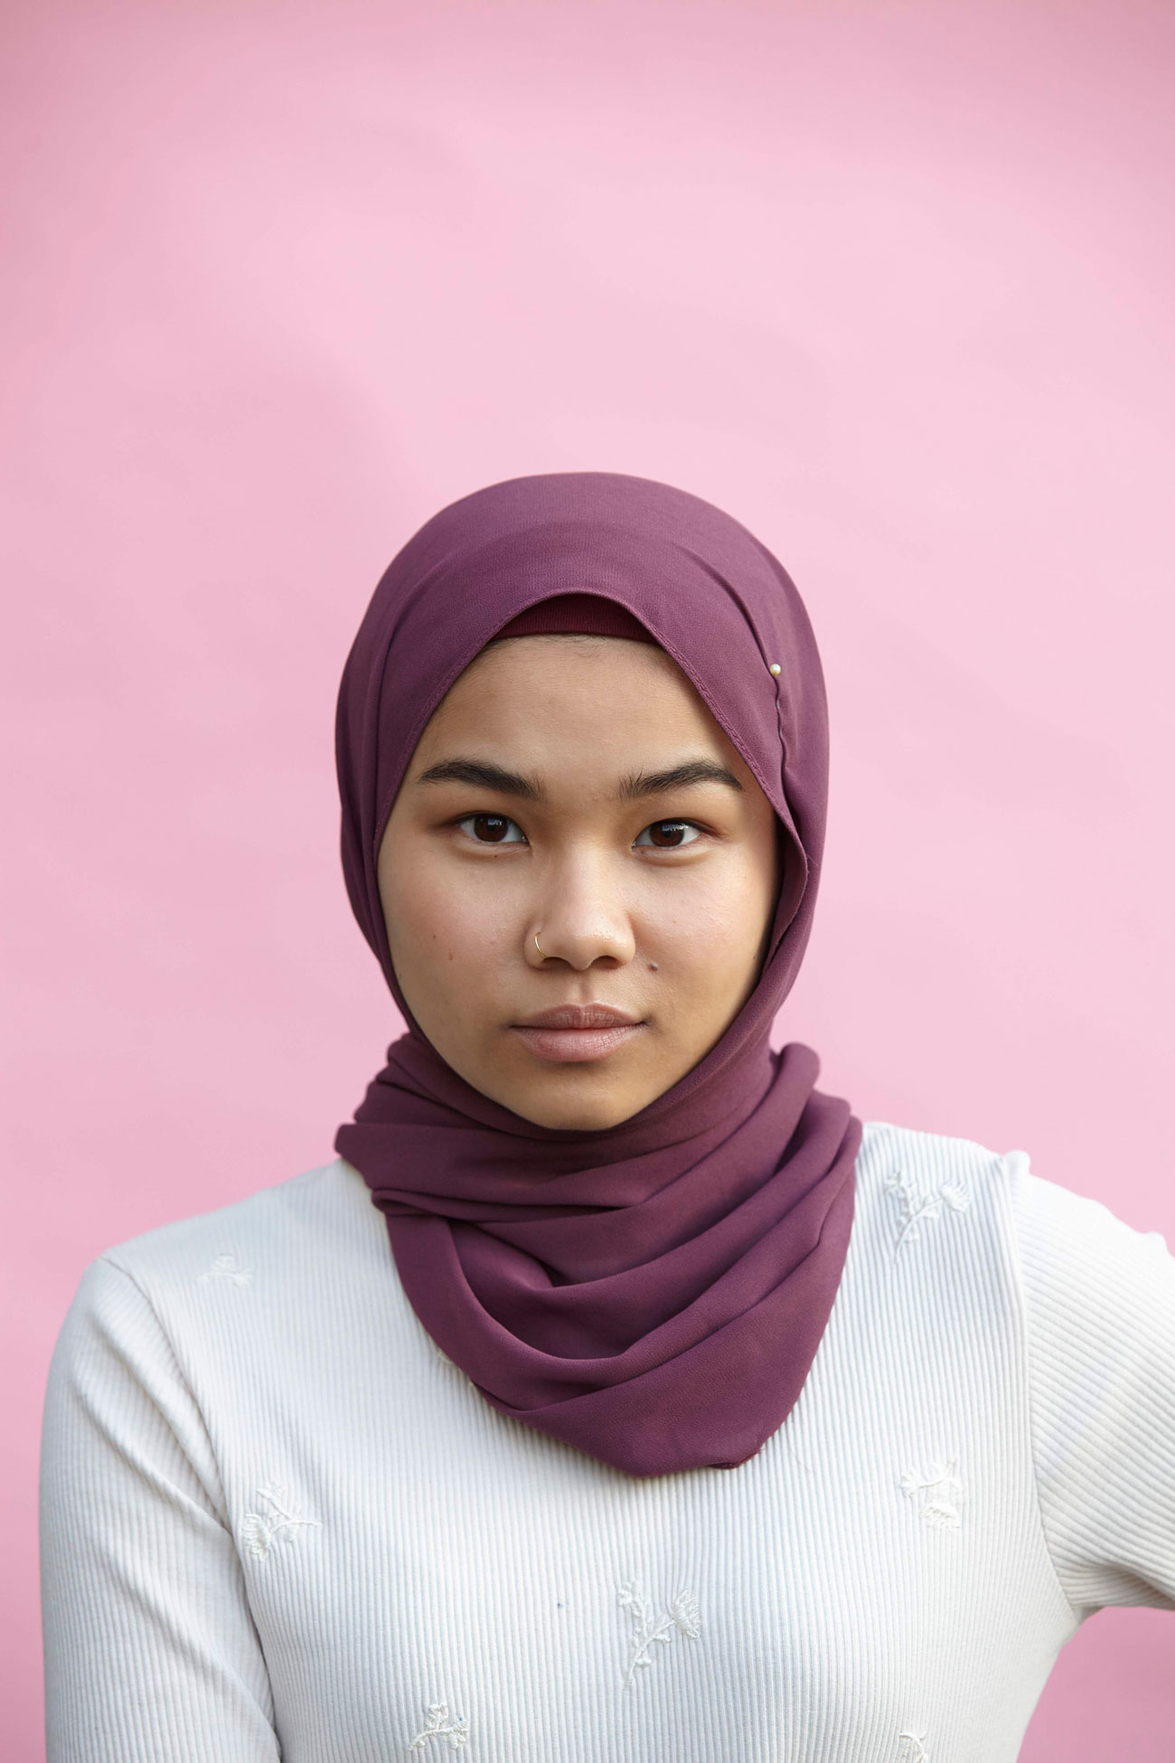
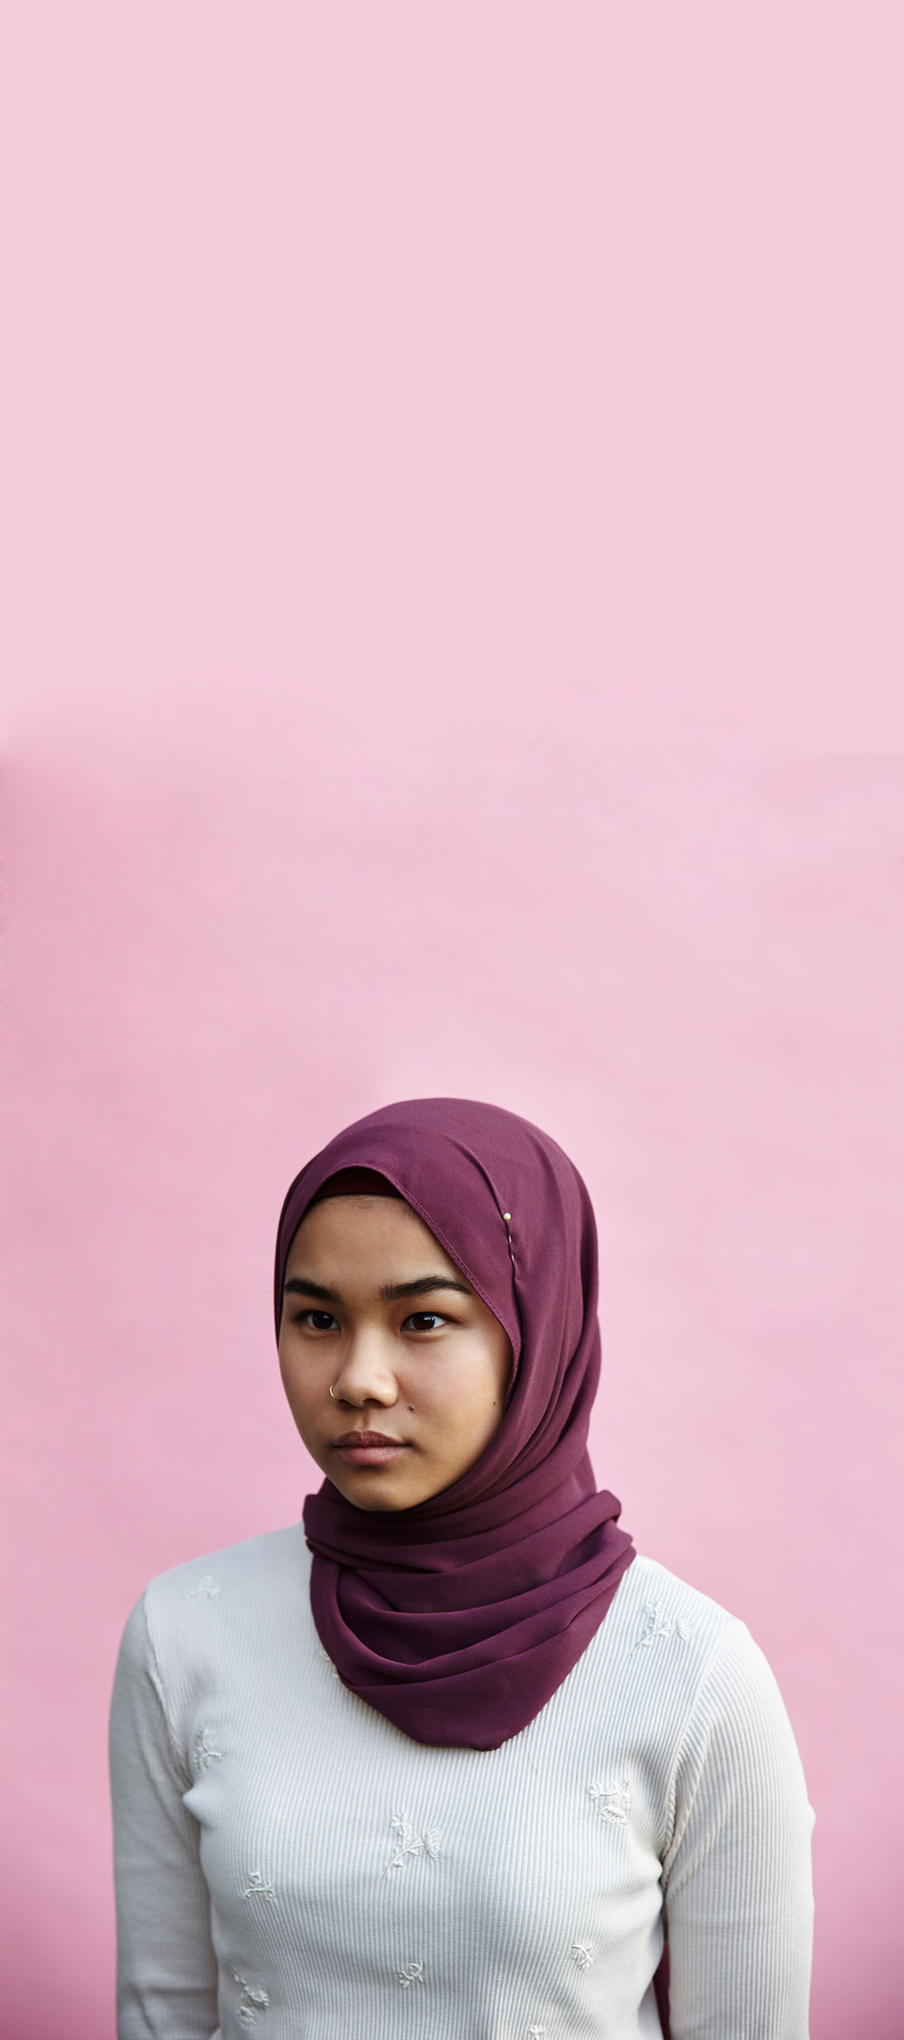
added tweaks to home

diff --git a/_site/assets/main.css b/_site/assets/main.css
@@ -1,3 +1,3 @@
-@font-face{font-family:'Apercu Pro';src:url("ApercuPro.woff2") format("woff2"),url("ApercuPro.woff") format("woff");font-weight:normal;font-style:normal}@keyframes gradient{0%{background-color:#a8c1ac;width:92vh;height:92vh}25%{background-color:#ea6e80}50%{background-color:#eea8bb;width:96vh;height:96vh}75%{background-color:#ffdc7b}100%{background-color:#85bfe4;width:92vh;height:92vh}}body{font-family:'Apercu Pro';padding:0;margin:0;font-weight:200;color:#333}.grid{width:90%;padding-left:5%;padding-right:5%;display:flex;position:fixed;top:0;bottom:0;left:50%;transform:translateX(-50%);z-index:1;pointer-events:none;display:none}.col{border-left:1px solid red;border-right:1px solid red;flex-grow:1;margin-right:10px;display:none}.col:nth-child(1),.col:nth-child(2),.col:nth-child(3),.col:nth-child(4){display:block}@media all and (min-width: 46.25em){.col:nth-child(5),.col:nth-child(6){display:block}.col:nth-child(6){margin-right:0}}@media all and (min-width: 61.25em){.col:nth-child(8),.col:nth-child(9),.col:nth-child(9),.col:nth-child(10){display:block}.col:nth-child(6){margin-right:10px}.col:nth-child(10){margin-right:0}}@media all and (min-width: 81.25em){.col:nth-child(11),.col:nth-child(12){display:block}.col:nth-child(10){margin-right:10px}.col:last-child{margin-right:0}}.som-wrapper{width:90%;padding-left:5%;padding-right:5%;margin-left:auto;margin-right:auto}@media all and (min-width: 61.25em){.som-wrapper{padding:0}}.courier{font-family:courier, monospace;font-size:17px;line-height:21px}.white{background-color:#fff !important;color:#9b9b9b}.flex{display:flex;flex-direction:column}@media all and (min-width: 61.25em){.flex{flex-direction:row}}.flex.wrap{flex-wrap:wrap}ul{list-style:none;margin:0;padding:0}ul li{width:7.55vw;margin-right:10px}ul li:last-child{margin-right:0}.numbers{font-size:9.5vw;line-height:0.8;font-weight:200;letter-spacing:-10px}.som-header{position:fixed;width:100%;z-index:1;padding-top:60px}.som-header .flex{justify-content:space-between}.som-header .flex ul{display:flex;flex-direction:column}@media all and (min-width: 61.25em){.som-header .flex ul{flex-direction:row}}@keyframes fade-in{0%{transform:scale(1.1)}100%{transform:scale(1)}}@keyframes wipeHeight{0%{height:0}100%{height:100vh}}.som-splash{height:100vh;width:100%;background-color:pink;position:relative;overflow:hidden}.som_splash__image-wrapper{overflow:hidden;animation-name:wipeHeight;animation-duration:1.5s;animation-iteration-count:1;animation-fill-mode:forwards;animation-timing-function:ease-in-out}.som-splash__image{width:100%;height:100%;object-fit:cover;object-position:top;opacity:1;transform:scale(1.1)}@keyframes enlarge{0%{transform:scale(1) translate(-50%, -50%)}50%{transform:scale(1.2) translate(-50%, -50%)}100%{transform:scale(1) translate(-50%, -50%)}}.som-cirlce__large{width:92vh;height:92vh;background-color:#a8c1ac;border-radius:50%;animation-name:gradient;animation-duration:7s;animation-iteration-count:infinite;animation-fill-mode:forwards;animation-timing-function:linear;will-change:transform;transition:all ease-in-out 1s;position:absolute;left:50%;top:50%;transform:translate(-50%, -50%);transform-origin:center}.som-cirlce__large.remove{top:-50%;transition:all ease-in-out 5s}.som-cirlce__large h1{position:absolute;font-size:30px;line-height:40px;letter-spacing:1px;color:#333;font-weight:100;left:50%;top:45%;transform:translate(-50%, -50%)}.som-cirlce__large h1 span{display:block;font-size:80px;line-height:75px;letter-spacing:-2px;text-transform:capitalize}.som-cirlce__large h1 .som-splash__broken-text{margin-left:250px}.som-square__1{width:23.8vw;height:23.8vw;background-color:grey;margin-top:9%;margin-bottom:9%}@media all and (min-width: 81.25em){.som-square__1:nth-child(1){margin-left:9.2%}}@media all and (min-width: 81.25em){.som-square__1{margin-left:9.8%}}.som-square__2{width:32.1vw;height:32.1vw;background-color:grey;margin-top:9%;margin-bottom:9%}@media all and (min-width: 81.25em){.som-square__2:nth-child(1){margin-left:9.2%}}@media all and (min-width: 81.25em){.som-square__2{margin-left:9.8%}}.som-panel{height:100vh;background-color:#406d84;color:#e7eee7}.som-panel .som-left,.som-panel .som-right{width:50%;height:100vh}.som-panel .som-left h1:nth-child(2){margin-top:220px}.som-panel.white h1{color:#9b9b9b;font-size:calc(17px * 3);line-height:calc(21px * 2.8);width:calc(90vw / 4 * 5 + (1.1% * 5))}@media all and (min-width: 46.25em){.som-panel.white h1{width:calc(90vw / 6 * 5 + (1.1% * 5))}}@media all and (min-width: 61.25em){.som-panel.white h1{width:calc(90vw / 10 * 5 + (1.1% * 5))}}@media all and (min-width: 81.25em){.som-panel.white h1{width:calc(90vw / 12 * 5 + (1.1% * 5))}}.som-panel.white p{color:#9b9b9b;width:calc(90vw / 4 * 3 + (1.1% * 3))}@media all and (min-width: 46.25em){.som-panel.white p{width:calc(90vw / 6 * 3 + (1.1% * 3))}}@media all and (min-width: 61.25em){.som-panel.white p{width:calc(90vw / 10 * 3 + (1.1% * 3))}}@media all and (min-width: 81.25em){.som-panel.white p{width:calc(90vw / 12 * 3 + (1.1% * 3))}}.som-panel .som-right{overflow:hidden}.som-panel .som-right p{max-width:290px;margin-left:74px;margin-top:148px}.som-panel .som-right p:nth-child(2){margin-top:215px}.som-panel .som-right img{width:calc(90vw / 4 * 3.35 + (1.1% * 3.35));height:100%;object-fit:cover;object-position:center;position:absolute;right:0}@media all and (min-width: 46.25em){.som-panel .som-right img{width:calc(90vw / 6 * 3.35 + (1.1% * 3.35))}}@media all and (min-width: 61.25em){.som-panel .som-right img{width:calc(90vw / 10 * 3.35 + (1.1% * 3.35))}}@media all and (min-width: 81.25em){.som-panel .som-right img{width:calc(90vw / 12 * 3.35 + (1.1% * 3.35))}}
+@font-face{font-family:'Apercu Pro';src:url("ApercuPro.woff2") format("woff2"),url("ApercuPro.woff") format("woff");font-weight:normal;font-style:normal}@keyframes gradient{0%{background-color:#ded9b3;width:92vh;height:92vh}10%{background-color:#ded9b3}25%{background-color:#406d84}50%{background-color:#eea8bb;width:96vh;height:96vh}75%{background-color:#ffdc7b}100%{background-color:#ded9b3;width:92vh;height:92vh}}body{font-family:'Apercu Pro';padding:0;margin:0;font-weight:200;color:#333}.grid{width:90%;padding-left:5%;padding-right:5%;display:flex;position:fixed;top:0;bottom:0;left:50%;transform:translateX(-50%);z-index:1;pointer-events:none;display:none}.grid.display{display:flex}.col{border-left:1px solid red;border-right:1px solid red;flex-grow:1;margin-right:10px;display:none}.col:nth-child(1),.col:nth-child(2),.col:nth-child(3),.col:nth-child(4){display:block}@media all and (min-width: 46.25em){.col:nth-child(5),.col:nth-child(6){display:block}.col:nth-child(6){margin-right:0}}@media all and (min-width: 61.25em){.col:nth-child(8),.col:nth-child(9),.col:nth-child(9),.col:nth-child(10){display:block}.col:nth-child(6){margin-right:10px}.col:nth-child(10){margin-right:0}}@media all and (min-width: 81.25em){.col:nth-child(11),.col:nth-child(12){display:block}.col:nth-child(10){margin-right:10px}.col:last-child{margin-right:0}}.som-wrapper{width:90%;padding-left:5%;padding-right:5%;margin-left:auto;margin-right:auto}@media all and (min-width: 61.25em){.som-wrapper{padding:0}}.courier{font-family:courier, monospace;font-size:17px;line-height:21px}.white{background-color:#fff !important;color:#9b9b9b}.olive{background-color:#ded9b3 !important;color:#333}.blue{background-color:#a3c3ce !important;color:#333}.flex{display:flex;flex-direction:column}@media all and (min-width: 61.25em){.flex{flex-direction:row}}.flex.wrap{flex-wrap:wrap}ul{list-style:none;margin:0;padding:0}ul li{margin-right:30px}ul li:last-child{margin-right:0}.numbers{font-size:9.5vw;line-height:0.8;font-weight:200;letter-spacing:-10px}.som-header{position:fixed;width:100%;z-index:1;padding-top:60px}.som-header .flex{justify-content:space-between}.som-header .flex ul{display:flex;flex-direction:column}@media all and (min-width: 61.25em){.som-header .flex ul{flex-direction:row}}@keyframes fade-in{0%{transform:scale(1.1)}100%{transform:scale(1)}}@keyframes wipeHeight{0%{height:0}100%{height:100vh}}.som-splash{height:100vh;width:100%;background-color:pink;position:relative;overflow:hidden}.som_splash__image-wrapper{overflow:hidden;animation-name:wipeHeight;animation-duration:1.5s;animation-iteration-count:1;animation-fill-mode:forwards;animation-timing-function:ease-in-out}.som-splash__image{width:100%;height:100%;object-fit:cover;object-position:top;opacity:1;transform:scale(1.1)}@keyframes enlarge{0%{transform:scale(1) translate(-50%, -50%)}50%{transform:scale(1.2) translate(-50%, -50%)}100%{transform:scale(1) translate(-50%, -50%)}}.circle{width:92vh;height:92vh;background-color:#ded9b3;border-radius:50%;animation-name:gradient;animation-duration:7s;animation-iteration-count:infinite;animation-fill-mode:forwards;animation-timing-function:linear;will-change:transform;transition:all ease-in-out 1s;position:absolute;left:50%;top:50%;transform:translate(-50%, -50%);transform-origin:center;z-index:10}.circle.left{left:0}.circle.right{right:0;transform:translate(50%, -100%)}.circle.bottom{top:0;bottom:0;transform:translate(50%, 50%)}.som-cirlce__large{width:92vh;height:92vh;background-color:#ded9b3;border-radius:50%;animation-name:gradient;animation-duration:7s;animation-iteration-count:infinite;animation-fill-mode:forwards;animation-timing-function:linear;will-change:transform;transition:all ease-in-out 1s;position:absolute;left:50%;top:50%;transform:translate(-50%, -50%);transform-origin:center}.som-cirlce__large.remove{top:-50%;transition:all ease-in-out 5s}.som-cirlce__large h1{position:absolute;font-size:30px;line-height:40px;letter-spacing:1px;color:#333;font-weight:100;left:50%;top:45%;transform:translate(-50%, -50%);margin-left:50px}.som-cirlce__large h1 span{display:block;font-size:80px;line-height:75px;letter-spacing:-2px;text-transform:capitalize;margin-left:-110px}.som-cirlce__large h1 .som-splash__broken-text{margin-left:100px}.som-square__1{width:23.8vw;height:23.8vw;background-color:grey;margin-top:9%;margin-bottom:9%}@media all and (min-width: 81.25em){.som-square__1:nth-child(1){margin-left:9.2%}}@media all and (min-width: 81.25em){.som-square__1{margin-left:9.8%}}.som-square__2{width:32.1vw;height:32.1vw;background-color:grey;margin-top:9%;margin-bottom:9%}@media all and (min-width: 81.25em){.som-square__2:nth-child(1){margin-left:9.2%}}@media all and (min-width: 81.25em){.som-square__2{margin-left:9.8%}}.som-panel{min-height:100vh;height:auto;background-color:#406d84;color:#bebebe;position:relative;overflow:hidden}.som-panel .som-left,.som-panel .som-right{width:50%;height:100vh}.som-panel .som-left h1:nth-child(2){margin-top:220px}.som-panel.white{padding-bottom:100px}.som-panel.white h1{color:#9b9b9b;font-size:calc(17px * 3);line-height:calc(21px * 2.6);width:calc(90vw / 4 * 4 + (1.1% * 4));font-weight:200;margin-top:100px;margin-bottom:100px}@media all and (min-width: 46.25em){.som-panel.white h1{width:calc(90vw / 6 * 4 + (1.1% * 4))}}@media all and (min-width: 61.25em){.som-panel.white h1{width:calc(90vw / 10 * 4 + (1.1% * 4))}}@media all and (min-width: 81.25em){.som-panel.white h1{width:calc(90vw / 12 * 4 + (1.1% * 4))}}.som-panel.white p{color:#9b9b9b;font-size:calc(17px * 1);line-height:calc(21px * 1.1);width:calc(90vw / 4 * 2.7 + (1.1% * 2.7));margin-left:55%}@media all and (min-width: 46.25em){.som-panel.white p{width:calc(90vw / 6 * 2.7 + (1.1% * 2.7))}}@media all and (min-width: 61.25em){.som-panel.white p{width:calc(90vw / 10 * 2.7 + (1.1% * 2.7))}}@media all and (min-width: 81.25em){.som-panel.white p{width:calc(90vw / 12 * 2.7 + (1.1% * 2.7))}}.som-panel.olive{padding-bottom:100px}.som-panel.olive h1{color:#333;font-size:calc(17px * 3);line-height:calc(21px * 2.8);width:calc(90vw / 4 * 7 + (1.1% * 7));font-weight:200;margin-top:-100px !important;margin-left:73%}@media all and (min-width: 46.25em){.som-panel.olive h1{width:calc(90vw / 6 * 7 + (1.1% * 7))}}@media all and (min-width: 61.25em){.som-panel.olive h1{width:calc(90vw / 10 * 7 + (1.1% * 7))}}@media all and (min-width: 81.25em){.som-panel.olive h1{width:calc(90vw / 12 * 7 + (1.1% * 7))}}.som-panel.olive p{color:#333;width:calc(90vw / 4 * 2 + (1.1% * 2));margin-top:100px}@media all and (min-width: 46.25em){.som-panel.olive p{width:calc(90vw / 6 * 2 + (1.1% * 2))}}@media all and (min-width: 61.25em){.som-panel.olive p{width:calc(90vw / 10 * 2 + (1.1% * 2))}}@media all and (min-width: 81.25em){.som-panel.olive p{width:calc(90vw / 12 * 2 + (1.1% * 2))}}.som-panel.blue h1{color:#333;font-size:calc(17px * 3);line-height:calc(21px * 2.8);width:calc(90vw / 4 * 4 + (1.1% * 4));font-weight:200;margin-top:-100px !important;margin-left:55%}@media all and (min-width: 46.25em){.som-panel.blue h1{width:calc(90vw / 6 * 4 + (1.1% * 4))}}@media all and (min-width: 61.25em){.som-panel.blue h1{width:calc(90vw / 10 * 4 + (1.1% * 4))}}@media all and (min-width: 81.25em){.som-panel.blue h1{width:calc(90vw / 12 * 4 + (1.1% * 4))}}.som-panel.blue p{color:#333;width:calc(90vw / 4 * 2 + (1.1% * 2))}@media all and (min-width: 46.25em){.som-panel.blue p{width:calc(90vw / 6 * 2 + (1.1% * 2))}}@media all and (min-width: 61.25em){.som-panel.blue p{width:calc(90vw / 10 * 2 + (1.1% * 2))}}@media all and (min-width: 81.25em){.som-panel.blue p{width:calc(90vw / 12 * 2 + (1.1% * 2))}}.som-panel .som-right{overflow:hidden}.som-panel .som-right p{max-width:290px;margin-left:74px;margin-top:148px}.som-panel .som-right p:nth-child(2){margin-top:215px}.som-panel .som-right img{width:calc(90vw / 4 * 3.35 + (1.1% * 3.35));height:100%;object-fit:cover;object-position:center;position:absolute;right:0}@media all and (min-width: 46.25em){.som-panel .som-right img{width:calc(90vw / 6 * 3.35 + (1.1% * 3.35))}}@media all and (min-width: 61.25em){.som-panel .som-right img{width:calc(90vw / 10 * 3.35 + (1.1% * 3.35))}}@media all and (min-width: 81.25em){.som-panel .som-right img{width:calc(90vw / 12 * 3.35 + (1.1% * 3.35))}}
 
 /*# sourceMappingURL=main.css.map */

diff --git a/_sass/style.scss b/_sass/style.scss
@@ -14,6 +14,7 @@ $darkPink: #ea6e80;
 $pink: #eea8bb;
 $yellow: #ffdc7b;
 $green: #a8c1ac;
+$bright-grey:#bebebe;
 //neutrals
 $nu-pink: #edc9c9;
 $nu-green: #a8c1ac;
@@ -28,12 +29,15 @@ $dark-blue:#406d84;
 
 @keyframes gradient {
   0% {
-    background-color: $green;
+    background-color: $nu-olive;
     width: 92vh;
     height: 92vh;
   }
+  10% {
+    background-color: $nu-olive;
+  }
   25% {
-    background-color: $darkPink;
+    background-color: $dark-blue;
   }
   50% {
     background-color: $pink;
@@ -44,7 +48,7 @@ $dark-blue:#406d84;
     background-color: $yellow;
   }
   100% {
-    background-color: $lightBlue;
+    background-color: $nu-olive;
     width: 92vh;
     height: 92vh;
   }
@@ -104,6 +108,10 @@ body {
   z-index: 1;
   pointer-events: none;
   display: none;
+
+  &.display {
+    display: flex;
+  }
 }
 
 .col {
@@ -177,6 +185,15 @@ body {
   color: $nu-grey;
 }
 
+.olive {
+  background-color: $nu-olive !important;
+  color: $grey;
+}
+.blue {
+  background-color: $nu-blue !important;
+  color: $grey;
+}
+
 .flex {
   display: flex;
   flex-direction: column;
@@ -197,8 +214,7 @@ ul {
   padding: 0;
 
   li {
-    width: 7.55vw;
-    margin-right: 10px;
+    margin-right: 30px;
 
     &:last-child {
       margin-right: 0;
@@ -289,10 +305,43 @@ ul {
   }
 }
 
+.circle {
+  width: 92vh;
+  height: 92vh;
+  background-color: $nu-olive;
+  border-radius: 50%;
+  animation-name: gradient;
+  animation-duration: 7s;
+  animation-iteration-count: infinite;
+  animation-fill-mode: forwards;
+  animation-timing-function: linear;
+  will-change: transform;
+  transition: all ease-in-out 1s;
+  position: absolute;
+  left: 50%;
+  top: 50%;
+  transform: translate(-50%, -50%);
+  transform-origin: center;
+  z-index: 10;
+
+  &.left {
+    left: 0;
+  }
+  &.right {
+    right: 0;
+    transform: translate(50%, -100%);
+  }
+  &.bottom {
+    top: 0;
+    bottom: 0;
+    transform: translate(50%, 50%);
+  }
+}
+
 .som-cirlce__large {
   width: 92vh;
   height: 92vh;
-  background-color: $green;
+  background-color: $nu-olive;
   border-radius: 50%;
   animation-name: gradient;
   animation-duration: 7s;
@@ -323,6 +372,7 @@ ul {
     left: 50%;
     top: 45%;
     transform: translate(-50%, -50%);
+    margin-left: 50px;
 
     span {
       display: block;
@@ -330,10 +380,12 @@ ul {
       line-height: 75px;
       letter-spacing: -2px;
       text-transform: capitalize;
+      margin-left: -110px;
+
 
     }
     .som-splash__broken-text {
-      margin-left: 250px;
+      margin-left: 100px;
     }
   }
 }
@@ -375,9 +427,12 @@ ul {
 }
 
 .som-panel {
-  height: 100vh;
+  min-height: 100vh;
+  height: auto;
   background-color: $dark-blue;
-  color: $nu-slate;
+  color: $bright-grey;
+  position: relative;
+  overflow: hidden;
 
   .som-left, .som-right {
     width: 50%;
@@ -394,15 +449,54 @@ ul {
   }
 
   &.white {
+    padding-bottom: 100px;
     h1 {
       color: $nu-grey;
-      @include font-size(3, 2.8);
-      @include size(5);
+      @include font-size(3, 2.6);
+      @include size(4);
+      font-weight: 200;
+      margin-top: 100px;
+      margin-bottom: 100px;
     }
 
     p {
       color: $nu-grey;
-      @include size(3);
+      @include font-size(1, 1.1);
+      @include size(2.7);
+      margin-left: 55%;
+    }
+  }
+  &.olive {
+    padding-bottom: 100px;
+
+    h1 {
+      color: $grey;
+      @include font-size(3, 2.8);
+      @include size(7);
+      font-weight: 200;
+      margin-top: -100px !important;
+      margin-left: 73%;
+    }
+
+    p {
+      color: $grey;
+      @include size(2);
+      margin-top: 100px;
+    }
+  }
+  &.blue {
+    h1 {
+      color: $grey;
+      @include font-size(3, 2.8);
+      @include size(4);
+      font-weight: 200;
+      margin-top: -100px !important;
+      margin-left: 55%;
+    }
+
+    p {
+      color: $grey;
+      @include size(2);
     }
   }
 

diff --git a/_site/index.html b/_site/index.html
@@ -17,7 +17,7 @@
           <li>Services</li>
           <li>News & Events</li>
           <li>Blog</li>
-          <li>Index</li>
+          <li>Contact</li>
         </ul>
       </div>
     </div>
@@ -60,6 +60,7 @@
 Only 1% feel this is the best treatment for depression. </p>
     </div>
   </div>
+  <!-- <div class="circle right bottom"></div> -->
 </div>
 <div class="som-panel white">
   <div class="som-wrapper flex">
@@ -69,9 +70,35 @@ Only 1% feel this is the best treatment for depression. </p>
       <p class="courier">We agree that pharmaceutical drugs are not a sustainable or ethical approach for supporting young people's mental health. We believe that a social remedy is needed urgently. We are here to help. </p>
     </div>
     <div class="som-right">
-      <img src="/uploads/som_splash.jpg">
+      <img src="/uploads/home_image_2.jpg">
     </div>
   </div>
 </div>
-<div class="som-footer">This is the footer</div>
+<div class="som-panel olive">
+  <div class="som-wrapper flex">
+    <div class="som-left">
+      <p class="courier">The state of our mind is not static or fixed - we have designed a model that draws on multiple theories and approaches for psychological growth, to promote sustainable systems. We view mental ill health as a sign that systems need psychological investment: we employ collaborative thinking to design solutions from the bottom up. </p>
+      <h1>What do young people need? 
+
+This was the question we asked 3 years ago and from which States of Mind was born. Designed by young people and nurtured by psychological thinking. Our model goes beyond biological paradigms of mental illness, to provide a more dynamic and evolving understanding of psychological distress. 
+</h1>
+    </div>
+  </div>
+</div>
+<div class="som-panel blue">
+  <div class="circle left"></div>
+  <div class="som-wrapper flex">
+    <div class="som-left">
+    </div>
+    <div class="som-right">
+      <p class="courier">We do not believe that mental health is a fixed construct, but an experience, that is facilitated through the quality of our relationships with ourselves and the world. 
+
+We believe in hope and opportunity amidst chaos and uncertainty, our mission is bring change to the lives of young people in our society, who struggle to make sense of their lives. 
+
+We work with them to create a more hopeful vision for life. </p>
+    </div>
+  </div>
+</div>
+<script src="assets/main.js"></script>
+<div class="som-footer">This is the with js</div>
 

diff --git a/_site/jekyll/update/2020/02/12/welcome-to-jekyll.html b/_site/jekyll/update/2020/02/12/welcome-to-jekyll.html
@@ -37,7 +37,7 @@
           <li>Services</li>
           <li>News & Events</li>
           <li>Blog</li>
-          <li>Index</li>
+          <li>Contact</li>
         </ul>
       </div>
     </div>
@@ -92,7 +92,8 @@
 </article>
 
       </div>
-    </main><div class="som-footer">This is the footer</div>
+    </main><script src="assets/main.js"></script>
+<div class="som-footer">This is the with js</div>
 </body>
 
 </html>

diff --git a/_site/404.html b/_site/404.html
@@ -35,7 +35,7 @@
           <li>Services</li>
           <li>News & Events</li>
           <li>Blog</li>
-          <li>Index</li>
+          <li>Contact</li>
         </ul>
       </div>
     </div>
@@ -79,7 +79,8 @@
 </div>
 
       </div>
-    </main><div class="som-footer">This is the footer</div>
+    </main><script src="assets/main.js"></script>
+<div class="som-footer">This is the with js</div>
 </body>
 
 </html>

diff --git a/_site/assets/main.js b/_site/assets/main.js
@@ -1,0 +1,13 @@
+function grid(){
+  var url = window.location.href;
+  console.log(url);
+  var grid = document.querySelector('.grid');
+  if(url.includes("grid")) {
+    grid.classList.add('display');
+  }
+}
+
+function init(){
+  grid();
+}
+init();

diff --git a/assets/main.js b/assets/main.js
@@ -1,0 +1,13 @@
+function grid(){
+  var url = window.location.href;
+  console.log(url);
+  var grid = document.querySelector('.grid');
+  if(url.includes("grid")) {
+    grid.classList.add('display');
+  }
+}
+
+function init(){
+  grid();
+}
+init();

diff --git a/_includes/header.html b/_includes/header.html
@@ -17,7 +17,7 @@
           <li>Services</li>
           <li>News & Events</li>
           <li>Blog</li>
-          <li>Index</li>
+          <li>Contact</li>
         </ul>
       </div>
     </div>

diff --git a/_includes/footer.html b/_includes/footer.html
@@ -1,1 +1,2 @@
-<div class="som-footer">This is the footer</div>
+<script src="assets/main.js"></script>
+<div class="som-footer">This is the with js</div>
